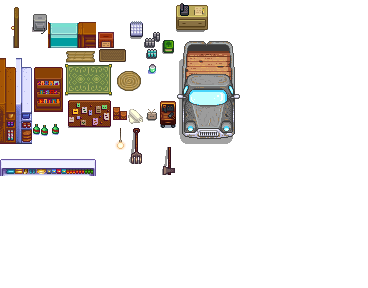
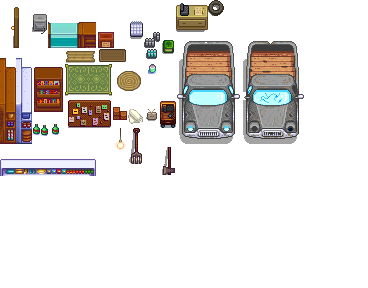
Implemented car repair and CampgroundData.RequireVehicle

diff --git a/Campgrounds/Framework/Utilities/CampingHelper.cs b/Campgrounds/Framework/Utilities/CampingHelper.cs
@@ -1,9 +1,11 @@
 using StardewValley;
+using StardewValley.Network;
 using System;
 using System.Collections.Generic;
 using System.Linq;
 using System.Text;
 using System.Threading.Tasks;
+using xTile.Dimensions;
 
 namespace Campgrounds.Framework.Utilities
 {
@@ -18,6 +20,74 @@ namespace Campgrounds.Framework.Utilities
                     break;
                 case "No":
                     break;
+            }
+        }
+        
+        public static void OnRepairCarResponse(Farmer who, string answer)
+        {
+            switch (answer)
+            {
+                case "Yes":
+                    Game1.globalFadeToBlack(() =>
+                    {
+                        Game1.freezeControls = true;
+                        DelayedAction.playSoundAfterDelay("crafting", 1000);
+                        DelayedAction.playSoundAfterDelay("crafting", 1500);
+                        DelayedAction.playSoundAfterDelay("crafting", 2000);
+                        DelayedAction.playSoundAfterDelay("crafting", 2500);
+                        DelayedAction.playSoundAfterDelay("axchop", 3000);
+                        DelayedAction.playSoundAfterDelay("Ship", 3200);
+
+                        Game1.viewportFreeze = true;
+                        Game1.viewport.X = -10000;
+                        Game1.pauseThenDoFunction(4000, () =>
+                        {
+                            Game1.globalFadeToClear();
+                            Game1.viewportFreeze = false;
+                            Game1.freezeControls = false;
+                        });
+
+                        AttemptRepairCarMapTiles(who.currentLocation, forceRepair: true);
+                    });
+                    Game1.player.Items.ReduceId("(O)787", 5);
+                    Game1.player.Items.ReduceId("(O)335", 10);
+                    Game1.player.Items.ReduceId("(O)388", 100);
+                    break;
+                case "No":
+                    break;
+            }
+        }
+
+        public static bool IsCarRepaired()
+        {
+            return NetWorldState.checkAnywhereForWorldStateID("PeacefulEnd.Campgrounds.CarRepaired");
+        }
+
+        public static void AttemptRepairCarMapTiles(GameLocation location, bool forceRepair = false)
+        {
+            if (forceRepair is true)
+            {
+                NetWorldState.addWorldStateIDEverywhere("PeacefulEnd.Campgrounds.CarRepaired");
+            }
+            else if (IsCarRepaired() is false)
+            {
+                return;
+            }
+
+            location.updateMap();
+            location.removeTileProperty(3, 4, "Buildings", "Action");
+
+            int baseOffset = 4;
+            for (int i = 0; i < 4; i++)
+            {
+                var offset = baseOffset - i;
+                location.setMapTile(4 + i, 3, 61 - offset, "Buildings", "Cindersap Interior");
+                location.setMapTile(4 + i, 4, 84 - offset, "Buildings", "Cindersap Interior");
+                location.setMapTile(4 + i, 5, 107 - offset, "Buildings", "Cindersap Interior");
+                location.setMapTile(4 + i, 6, 130 - offset, "Buildings", "Cindersap Interior");
+                location.setMapTile(4 + i, 7, 153 - offset, "Buildings", "Cindersap Interior");
+                location.setMapTile(4 + i, 8, 176 - offset, "Buildings", "Cindersap Interior");
+                location.setMapTile(4 + i, 9, 199 - offset, "Buildings", "Cindersap Interior");
             }
         }
 

diff --git a/Campgrounds/Framework/UI/CampListMenu.cs b/Campgrounds/Framework/UI/CampListMenu.cs
@@ -179,6 +179,16 @@ namespace Campgrounds.Framework.UI
                 Game1.activeClickableMenu = new DialogueBox("There is not enough time to reach that campsite before midnight...");
                 return;
             }
+            if (_selectedCampsite.RequireVehicle is true && CampingHelper.IsCarRepaired() is false)
+            {
+                var dialogue = new List<string>()
+                {
+                    "This campsite requires a vehicle to reach. You see a note attached to the map...",
+                    "\"You can use my grandmother's old car in the garage! It will need some work to get running again though.\" - Vesi"
+                };
+                Game1.activeClickableMenu = new DialogueBox(dialogue);
+                return;
+            }
 
             // Display travel screen with any TravelScreenText (or use default if none given) and warp to campsite
             Campgrounds.campManager.StartTraveling(Game1.player, _selectedCampsite);
@@ -256,7 +266,13 @@ namespace Campgrounds.Framework.UI
             }            
             if (string.IsNullOrEmpty(vehicleRequiredInfo) is false)
             {
-                b.DrawString(Game1.dialogueFont, vehicleRequiredInfo, new Vector2((0f - Game1.dialogueFont.MeasureString(vehicleRequiredInfo).X) / 2f + _infoDisplayPosition.X, _infoDisplayPosition.Y + 128), Game1.textColor);
+                var vehicleRequiredColor = Game1.textColor;
+                if (_selectedCampsite.RequireVehicle && CampingHelper.IsCarRepaired() is false)
+                {
+                    vehicleRequiredColor = Color.Red;
+                }
+
+                b.DrawString(Game1.dialogueFont, vehicleRequiredInfo, new Vector2((0f - Game1.dialogueFont.MeasureString(vehicleRequiredInfo).X) / 2f + _infoDisplayPosition.X, _infoDisplayPosition.Y + 128), vehicleRequiredColor);
             }
 
             // Draw the campsite buttons

diff --git a/Campgrounds/Framework/Patches/Locations/GameLocationPatch.cs b/Campgrounds/Framework/Patches/Locations/GameLocationPatch.cs
@@ -1,10 +1,14 @@
 using Campgrounds.Framework.Objects;
 using Campgrounds.Framework.Patches;
+using Campgrounds.Framework.Utilities;
 using HarmonyLib;
 using Microsoft.Xna.Framework;
+using Microsoft.Xna.Framework.Graphics;
 using StardewModdingAPI;
 using StardewValley;
 using StardewValley.Menus;
+using StardewValley.Network;
+using System;
 using System.Collections.Generic;
 using System.Linq;
 
@@ -21,7 +25,18 @@ namespace Campgrounds.Framework.Patches.Locations
 
         internal override void Apply(Harmony harmony)
         {
+            harmony.Patch(AccessTools.Method(_object, nameof(GameLocation.draw), new[] { typeof(SpriteBatch) }), postfix: new HarmonyMethod(GetType(), nameof(DrawPostfix)));
             harmony.Patch(AccessTools.Method(_object, nameof(GameLocation.isActionableTile), new[] { typeof(int), typeof(int), typeof(Farmer) }), postfix: new HarmonyMethod(GetType(), nameof(IsActionableTilePostfix)));
+        }
+
+        private static void DrawPostfix(GameLocation __instance, SpriteBatch b)
+        {
+            if (CampingHelper.IsCarRepaired() is false)
+            {
+                float yOffset = 4f * (float)Math.Round(Math.Sin(Game1.currentGameTime.TotalGameTime.TotalMilliseconds / 250.0), 2);
+                b.Draw(Game1.mouseCursors, Game1.GlobalToLocal(Game1.viewport, new Vector2(3f * 64f, 2f * 64f + yOffset)), new Rectangle(141, 465, 20, 24), Color.White * 0.75f, 0f, Vector2.Zero, 4f, SpriteEffects.None, 0.095401f);
+                b.Draw(Game1.mouseCursors, Game1.GlobalToLocal(Game1.viewport, new Vector2(3.65f * 64f, 2.6f * 64f + yOffset)), new Rectangle(175, 425, 12, 12), Color.White * 0.75f, 0f, new Vector2(6f, 6f), 4f, SpriteEffects.None, 0.09541f);
+            }
         }
 
         private static void IsActionableTilePostfix(GameLocation __instance, ref bool __result, int xTile, int yTile, Farmer who)

diff --git a/Campgrounds/Campgrounds.cs b/Campgrounds/Campgrounds.cs
@@ -69,6 +69,7 @@ namespace Campgrounds
 
             // Register actions
             GameLocation.RegisterTileAction("PeacefulEnd.Campgrounds_CampingSiteList", MapActionHelper.HandleCampingSiteList);
+            GameLocation.RegisterTileAction("PeacefulEnd.Campgrounds_CarRepair", MapActionHelper.HandleCarRepair);
             GameLocation.RegisterTouchAction("PeacefulEnd.Campgrounds_CampingExit", (GameLocation location, string[] args, Farmer who, Vector2 tile) => MapActionHelper.HandleCampingExit(location, args, who, tile, false));
         }
 
@@ -85,6 +86,13 @@ namespace Campgrounds
         private void OnSaveLoaded(object sender, SaveLoadedEventArgs e)
         {
             campManager.FindActiveCampsites();
+
+            // Repair garage car (if needed)
+            var garageLocation = Game1.getLocationFromName("PeacefulEnd.Campgrounds.ContentPatcher_CindersapParkGarage");
+            if (garageLocation is not null)
+            {
+                CampingHelper.AttemptRepairCarMapTiles(garageLocation);
+            }
         }
 
         private void OnSaving(object sender, SavingEventArgs e)

diff --git a/Campgrounds/Framework/Utilities/MapActionHelper.cs b/Campgrounds/Framework/Utilities/MapActionHelper.cs
@@ -14,6 +14,20 @@ namespace Campgrounds.Framework.Utilities
             return true;
         }
 
+        public static bool HandleCarRepair(GameLocation location, string[] args, Farmer player, Point point)
+        {
+            if (player.Items.ContainsId("(O)787", 5) && player.Items.ContainsId("(O)335", 10) && player.Items.ContainsId("(O)388", 100))
+            {
+                location.createQuestionDialogue("Repair the car?", location.createYesNoResponses(), CampingHelper.OnRepairCarResponse);
+            }
+            else
+            {
+                Game1.drawObjectDialogue("The car is in bad shape. You could get it working again with 5 battery packs, 10 iron bars and 100 wood.");
+            }
+
+            return true;
+        }
+
         // Touch actions
         public static void HandleCampingExit(GameLocation location, string[] args, Farmer player, Vector2 tile, bool skipLeaveEarlyCheck = false)
         {
